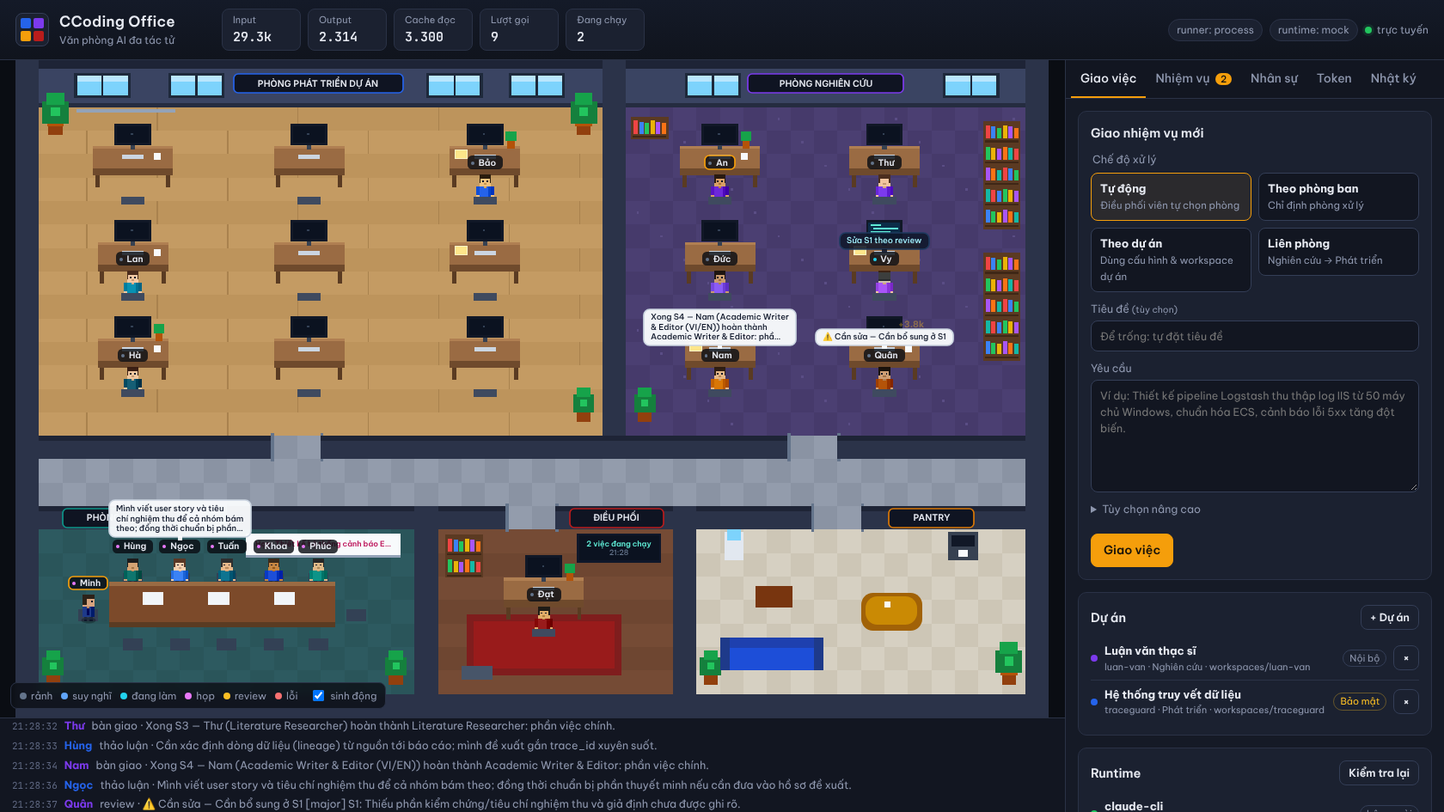
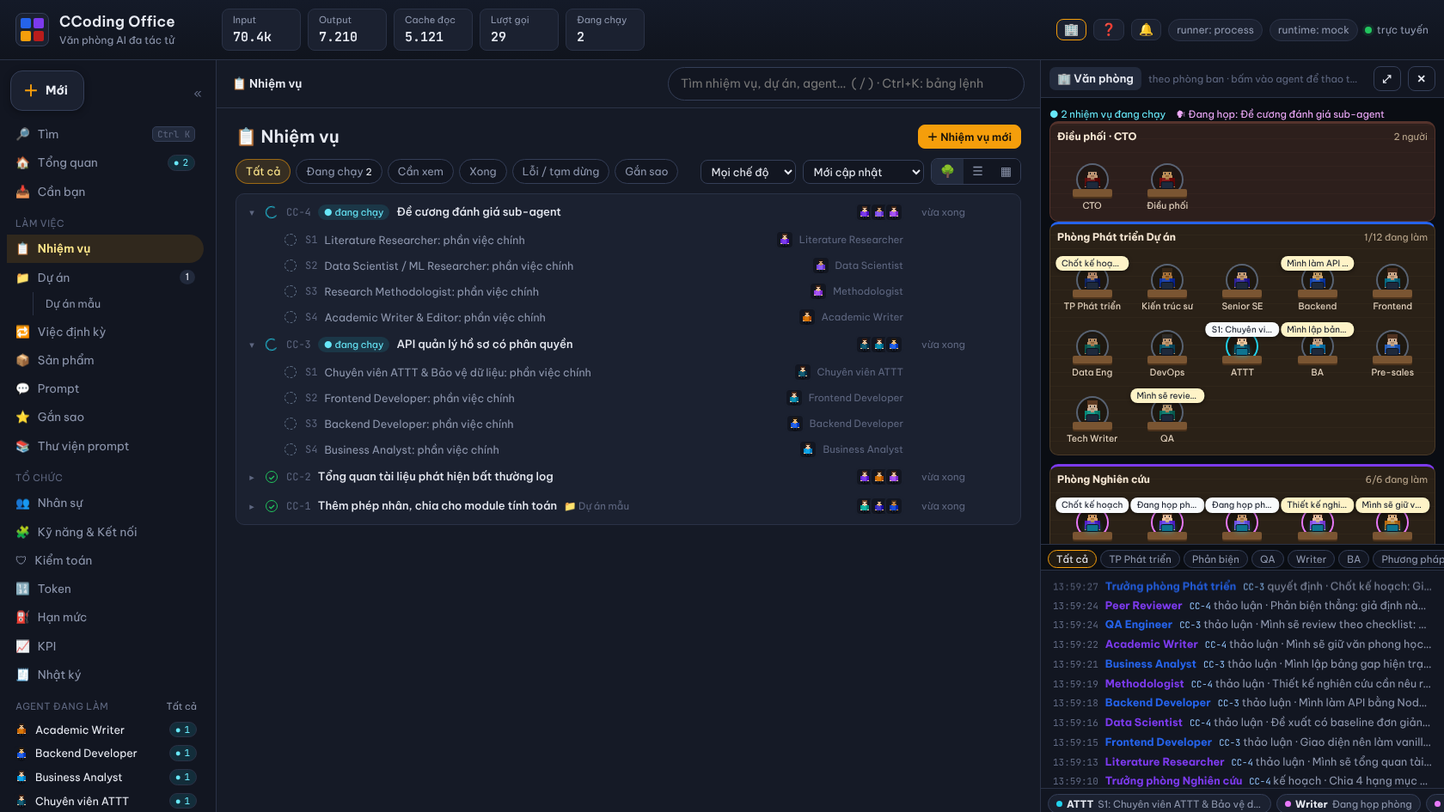
Tài liệu sau UX-4: README, kiến trúc, giao diện; CLI dùng mã CC-n
- README: tính năng UX-1→UX-4 (xem/gộp thay đổi, dòng thời gian, Cần bạn, Ctrl+K, mã ngắn, cây nhiệm vụ,
  duyệt kế hoạch, CTO nghiệm thu, Việc định kỳ, Sản phẩm, Kỹ năng & Kết nối, Kiểm toán, văn phòng theo phòng ban);
  bỏ phần "phòng giám đốc" WASD/trò vui đã gỡ; sơ đồ kiến trúc có CTO + bộ lập lịch; cây data/; 166 test; ảnh mới
  (chụp từ server thử, dữ liệu mẫu).
- docs/ARCHITECTURE.md: bảng thành phần đủ module, vòng đời có cổng duyệt kế hoạch, lệnh kiểm tra, nghiệm thu,
  gộp; sự kiện SSE alert/runtime; bảng REST API đầy đủ (ship, diff, timeline, plan, review, audit, routines…).
- docs/UI.md: bố cục cột trái/giữa/phải hiện tại, phím tắt (bỏ WASD), gợi ý tiếp theo; HERDR/TOOLS/RUNTIMES/
  AGENTS-GUIDE: pha nghiệm thu, nhóm Điều phối gồm CTO.
- CLI: status/show/task/resume/split hiện mã CC-n; `ccoding show CC-12` nhận mã ngắn và hiện kết luận nghiệm thu;
  trợ giúp ghi `--from accept`.
- ccoding.config.json ghi rõ taskPrefix, defaults.acceptance, planApprovalMinutes, giới hạn pha accept (trùng mặc định).

Claude-Session: https://claude.ai/code/session_01FYR8M5XFaYf41UMjPuSBoN

diff --git a/src/cli.ts b/src/cli.ts
@@ -37,14 +37,14 @@ ${c.bold('Giao việc')}
       --project <id>                         Gắn vào dự án (chế độ project)
       --title "<tiêu đề>"   --rounds 0-3   --parallel 1-8   --no-review
       --runtime <id>        --budget <token>   --budget-mode pause|complete   --wait
-  cancel <taskId>                            Hủy nhiệm vụ đang chạy
-  pause <taskId>                             Tạm dừng (giữ tiến độ)
-  resume <taskId> [--add <token>] [--budget-mode pause|complete] [--from review|synthesize] [--rerun S1,S2|all]
-                                             Tiếp tục từ checkpoint / làm lại từ review / chạy lại hạng mục
-  split <taskId> [--only S1,S2] [--budget <token>] [--budget-mode pause|complete]
+  cancel <mã>                                Hủy nhiệm vụ đang chạy (mã CC-12 hoặc id đầy đủ T-…)
+  pause <mã>                                 Tạm dừng (giữ tiến độ)
+  resume <mã> [--add <token>] [--budget-mode pause|complete] [--from review|synthesize|accept] [--rerun S1,S2|all]
+                                             Tiếp tục từ checkpoint / làm lại từ review / nghiệm thu lại / chạy lại hạng mục
+  split <mã> [--only S1,S2] [--budget <token>] [--budget-mode pause|complete]
                                              Tách hạng mục chưa xong thành nhiệm vụ riêng (mỗi nhiệm vụ một gói việc)
   status [--watch]                           Danh sách nhiệm vụ & trạng thái agent
-  show <taskId>                              Chi tiết một nhiệm vụ
+  show <mã>                                  Chi tiết một nhiệm vụ (hạng mục, review, CTO nghiệm thu)
 
 ${c.bold('Log & token')}
   logs [-f] [--agent id] [--dept id] [--task id|latest] [--level warn+] [-n 50]   Xem / theo dõi log
@@ -114,8 +114,13 @@ function printMessage(m: ChatMessage, names: Map<string, string>): void {
   console.log(`${c.gray(localTime(m.ts))} ${tag} ${c.bold(who)} ${c.gray(`[${m.department}]`)}\n   ${m.text.split('\n').join('\n   ')}`);
 }
 
+/** Mã ngắn "CC-12" (UX-4a); nhiệm vụ chưa có số thì dùng id đầy đủ. */
+function taskCode(t: Pick<Task, 'id' | 'seq'>): string {
+  return t.seq ? `${config.taskPrefix}-${t.seq}` : t.id;
+}
+
 function taskRow(t: Task): string[] {
-  return [t.id, statusColor(t.status), t.phase ?? '', t.mode, t.departments.join('→') || t.department || '', fmtNum(totalTokens(t.usage)), t.title.slice(0, 50)];
+  return [taskCode(t), statusColor(t.status), t.phase ?? '', t.mode, t.departments.join('→') || t.department || '', fmtNum(totalTokens(t.usage)), t.title.slice(0, 50)];
 }
 
 // ── Lệnh ────────────────────────────────────────────────────────────────────
@@ -195,7 +200,7 @@ async function cmdTask(args: string[]): Promise<void> {
 
   if (!values.local && (await serverUp())) {
     const t = await api<Task>('/api/tasks', { method: 'POST', body: JSON.stringify(input) });
-    console.log(`${c.green('✓')} Đã giao ${c.bold(t.id)} — theo dõi tại ${c.cyan(base)}`);
+    console.log(`${c.green('✓')} Đã giao ${c.bold(taskCode(t))} — theo dõi tại ${c.cyan(`${base}/#/task/${taskCode(t)}`)}`);
     if (!values.wait) return;
     const state = await api('/api/state');
     const names = new Map<string, string>(state.agents.map((a: { id: string; name: string }) => [a.id, a.name]));
@@ -219,14 +224,14 @@ async function cmdTask(args: string[]): Promise<void> {
   });
   console.log(c.gray('(server chưa chạy — thực thi trực tiếp trong terminal này)'));
   const t = app.orchestrator.submit(input);
-  console.log(`${c.green('✓')} ${c.bold(t.id)}: ${t.title}`);
+  console.log(`${c.green('✓')} ${c.bold(taskCode(t))}: ${t.title}`);
   const done = await app.orchestrator.waitFor(t.id);
   app.store.flush();
   finishTask(done, app.store.runDir(t.id));
 }
 
 function finishTask(t: Task, runDir: string): void {
-  console.log(`\n${c.bold('Kết thúc')} ${t.id}: ${statusColor(t.status)}${t.error ? c.red(` — ${t.error}`) : ''}${t.pause ? c.yellow(` — ${t.pause.detail} (tiếp tục: ccoding resume ${t.id})`) : ''}`);
+  console.log(`\n${c.bold('Kết thúc')} ${taskCode(t)}: ${statusColor(t.status)}${t.error ? c.red(` — ${t.error}`) : ''}${t.pause ? c.yellow(` — ${t.pause.detail} (tiếp tục: ccoding resume ${taskCode(t)})`) : ''}`);
   console.log(`Token: in ${fmtNum(t.usage.input)} · out ${fmtNum(t.usage.output)} · cache ${fmtNum(t.usage.cacheRead)} · ${t.usage.calls} lượt${t.usage.costUsd ? ` · ${fmtUsd(t.usage.costUsd)}` : ''}`);
   if (t.finalPath) console.log(`Báo cáo: ${c.cyan(path.join(runDir, t.finalPath))}`);
   if (t.status !== 'done') process.exitCode = 1;
@@ -253,7 +258,7 @@ async function cmdStatus(args: string[] = []): Promise<void> {
   if (await serverUp()) {
     const s = await api('/api/state');
     console.log(c.bold(`Nhiệm vụ (runner: ${s.runner})`));
-    console.log(table(['ID', 'Trạng thái', 'Pha', 'Chế độ', 'Phòng', 'Token', 'Tiêu đề'], s.tasks.slice(0, 15).map(taskRow), ['l', 'l', 'l', 'l', 'l', 'r']));
+    console.log(table(['Mã', 'Trạng thái', 'Pha', 'Chế độ', 'Phòng', 'Token', 'Tiêu đề'], s.tasks.slice(0, 15).map(taskRow), ['l', 'l', 'l', 'l', 'l', 'r']));
     console.log(`\n${c.bold('Nhân sự')}`);
     const rows = s.agents.map((a: any) => [
       hexColor(a.look.shirt, '■') + ' ' + a.name,
@@ -270,16 +275,34 @@ async function cmdStatus(args: string[] = []): Promise<void> {
   const logs = new LogStore(config.dataDir, { redactSecrets: true, redactPii: true, hashChain: true });
   const store = new Store(config.dataDir, logs);
   console.log(c.gray('(server không chạy — đọc từ đĩa)'));
-  console.log(table(['ID', 'Trạng thái', 'Pha', 'Chế độ', 'Phòng', 'Token', 'Tiêu đề'], store.list().slice(0, 15).map(taskRow), ['l', 'l', 'l', 'l', 'l', 'r']));
+  console.log(table(['Mã', 'Trạng thái', 'Pha', 'Chế độ', 'Phòng', 'Token', 'Tiêu đề'], store.list().slice(0, 15).map(taskRow), ['l', 'l', 'l', 'l', 'l', 'r']));
+}
+
+/** Đọc nhiệm vụ từ đĩa theo id đầy đủ hoặc mã ngắn (CC-12). */
+function findTaskOnDisk(ref: string): Task | null {
+  const runs = path.join(config.dataDir, 'runs');
+  if (/^[\w.-]+$/.test(ref)) {
+    const t = readJsonFile<Task | null>(path.join(runs, ref, 'task.json'), null);
+    if (t) return t;
+  }
+  const m = /^[A-Za-z][A-Za-z0-9]{0,7}-(\d{1,9})$/.exec(ref.trim());
+  if (!m || !fs.existsSync(runs)) return null;
+  const n = Number(m[1]);
+  for (const d of fs.readdirSync(runs, { withFileTypes: true })) {
+    if (!d.isDirectory()) continue;
+    const t = readJsonFile<Task | null>(path.join(runs, d.name, 'task.json'), null);
+    if (t?.seq === n) return t;
+  }
+  return null;
 }
 
 async function cmdShow(args: string[]): Promise<void> {
-  const id = args[0];
-  if (!id) throw new Error('Cần taskId');
-  const runDir = path.join(config.dataDir, 'runs', id);
-  const t = readJsonFile<Task | null>(path.join(runDir, 'task.json'), null);
-  if (!t) throw new Error(`Không có nhiệm vụ ${id}`);
-  console.log(`${c.bold(t.id)} — ${t.title}\n${statusColor(t.status)} · ${t.mode} · ${t.departments.join(' → ')} · dữ liệu: ${t.classification}`);
+  const ref = args[0];
+  if (!ref) throw new Error('Cần mã nhiệm vụ (CC-12) hoặc taskId');
+  const t = findTaskOnDisk(ref);
+  if (!t) throw new Error(`Không có nhiệm vụ ${ref}`);
+  const runDir = path.join(config.dataDir, 'runs', t.id);
+  console.log(`${c.bold(taskCode(t))}${t.seq ? c.gray(` (${t.id})`) : ''} — ${t.title}\n${statusColor(t.status)} · ${t.mode} · ${t.departments.join(' → ')} · dữ liệu: ${t.classification}`);
   if (t.routing) console.log(c.gray(`Định tuyến: ${t.routing.reason} (bởi ${t.routing.by})`));
   for (const r of t.runs) {
     console.log(`\n${c.bold(r.department)} — ${statusColor(r.status)} · ${fmtNum(totalTokens(r.usage))} token`);
@@ -292,6 +315,7 @@ async function cmdShow(args: string[]): Promise<void> {
     );
     if (r.review) console.log(`Review: ${r.review.approved ? c.green('duyệt') : c.yellow('cần sửa')} — ${r.review.summary}`);
   }
+  if (t.acceptance) console.log(`\nCTO nghiệm thu: ${t.acceptance.accepted ? c.green('đạt') : c.yellow(t.acceptance.error ? `chưa nghiệm thu được — ${t.acceptance.error}` : 'chưa đạt')}${t.acceptance.criteria?.length ? ` · ${t.acceptance.criteria.filter((x) => x.result === 'pass').length}/${t.acceptance.criteria.length} tiêu chí` : ''}`);
   if (t.finalPath) console.log(`\nBáo cáo: ${c.cyan(path.join(runDir, t.finalPath))}`);
 }
 
@@ -711,7 +735,7 @@ async function cmdResume(args: string[]): Promise<void> {
     rerun: values.rerun ? (values.rerun === 'all' ? 'all' : values.rerun.split(',')) : undefined,
   };
   const t = await api<Task>(`/api/tasks/${positionals[0]}/resume`, { method: 'POST', body: JSON.stringify(body) });
-  console.log(`${c.green('✓')} Tiếp tục ${t.id} — ngân sách ${fmtNum(t.options.budgetTokens)} · ${t.options.budgetMode === 'complete' ? 'chạy tới khi hoàn thành' : 'dừng khi chạm trần'}`);
+  console.log(`${c.green('✓')} Tiếp tục ${taskCode(t)} — ngân sách ${fmtNum(t.options.budgetTokens)} · ${t.options.budgetMode === 'complete' ? 'chạy tới khi hoàn thành' : 'dừng khi chạm trần'}`);
 }
 
 async function cmdSplit(args: string[]): Promise<void> {
@@ -720,8 +744,8 @@ async function cmdSplit(args: string[]): Promise<void> {
   if (!(await serverUp())) throw new Error('Server không chạy');
   const body = { subtasks: values.only ? values.only.split(',') : undefined, budgetTokens: values.budget ? Number(values.budget) : undefined, budgetMode: values['budget-mode'] };
   const r = await api<{ task: Task; created: Task[] }>(`/api/tasks/${positionals[0]}/split`, { method: 'POST', body: JSON.stringify(body) });
-  console.log(`${c.green('✓')} Đã tách ${r.created.length} nhiệm vụ từ ${r.task.id}:`);
-  for (const t of r.created) console.log(`  ${t.id}  ${t.title}  · ngân sách ${fmtNum(t.options.budgetTokens)}${t.after?.length ? c.dim(` · chờ ${t.after.join(', ')}`) : ''}`);
+  console.log(`${c.green('✓')} Đã tách ${r.created.length} nhiệm vụ từ ${taskCode(r.task)}:`);
+  for (const t of r.created) console.log(`  ${taskCode(t)}  ${t.title}  · ngân sách ${fmtNum(t.options.budgetTokens)}${t.after?.length ? c.dim(` · chờ ${t.after.join(', ')}`) : ''}`);
 }
 
 async function cmdCancel(args: string[]): Promise<void> {

diff --git a/docs/UI.md b/docs/UI.md
@@ -6,9 +6,9 @@ Giao diện web (http://127.0.0.1:7420) chỉ phục vụ máy cục bộ, khôn
 
 | Cột | Nội dung |
 |---|---|
-| **Trái — điều hướng** | **＋ Mới** (nhiệm vụ, giao riêng, dự án, prompt, tải tệp), các mục chính, cây **Dự án → Nhiệm vụ** (như thư mục), gắn sao, gần đây ngoài dự án, ⛽ token hôm nay. Nút `«`/`»` thu gọn thành dải biểu tượng (mặc định thu gọn ở màn Prompt, nhớ riêng cho từng màn). |
-| **Giữa — màn chính** | Kiểu Drive: *Tổng quan* (việc đang chạy, cần quyết định, dự án, gần đây), *Dự án* dạng thư mục (chuột phải/⋮ để thao tác), trang dự án có ô soạn + nhân sự, *Nhiệm vụ* (lọc, sắp xếp, danh sách/lưới, gắn sao, menu chuột phải), trang nhiệm vụ đầy đủ (kế hoạch, lệnh kiểm tra, sản phẩm, 🧬 thay đổi, token, nhật ký, lượt gọi, ô soạn cuối trang). Ô tìm `/` tìm nhiệm vụ, dự án, agent. Mỗi màn có URL riêng (Back/Forward dùng được). |
-| **Phải — ô phụ** | Thẻ **🏢 Văn phòng** (sơ đồ pixel + dòng sự kiện mới nhất ở trên) và **📄 Xem trước** (báo cáo/tệp sản phẩm mở từ hội thoại, chép nội dung). `⤢` phóng to, `✕`/phím `V` ẩn hiện. |
+| **Trái — điều hướng** | **＋ Mới** (nhiệm vụ, giao riêng, dự án, prompt, tải tệp), 🔎 Tìm (Ctrl+K), 🏠 Tổng quan, 📥 Cần bạn; nhóm **Làm việc** (Nhiệm vụ, Dự án + các dự án bên dưới, 🔁 Việc định kỳ, 📦 Sản phẩm, 💬 Prompt, Gắn sao, Thư viện prompt) và **Tổ chức** (Nhân sự, 🧩 Kỹ năng & Kết nối, 🛡 Kiểm toán, Token, Hạn mức, KPI, Nhật ký); agent đang làm; nhiệm vụ gần đây; ⛽ token hôm nay. Nút `«`/`»` thu gọn thành dải biểu tượng (mặc định thu gọn ở màn Prompt, nhớ riêng cho từng màn). Chi tiết ở mục UX-4a, UX-4d bên dưới. |
+| **Giữa — màn chính** | *Tổng quan* (việc đang chạy, cần quyết định, dự án, gần đây), *Dự án* (chuột phải/⋮ để thao tác), trang dự án có ô soạn + nhân sự, *Nhiệm vụ* dạng **cây** (hoặc bảng/lưới; lọc, sắp xếp, gắn sao, menu chuột phải), trang nhiệm vụ đầy đủ (kế hoạch, lệnh kiểm tra, CTO nghiệm thu, sản phẩm, 🧬 thay đổi, ⏱ dòng thời gian, token, nhật ký, lượt gọi, ô soạn cuối trang) và các trang Việc định kỳ, Sản phẩm, Kỹ năng & Kết nối, Kiểm toán. Mã nhiệm vụ ngắn `CC-n` ở mọi nơi. Ô tìm `/` tìm nhiệm vụ, dự án, agent. Mỗi màn có URL riêng (Back/Forward dùng được). |
+| **Phải — ô phụ** | Thẻ **🏢 Văn phòng** (mỗi phòng ban một phòng, mỗi agent một bàn; luồng hoạt động theo agent; thanh trạng thái — xem mục *Văn phòng* bên dưới) và **📄 Xem trước** (báo cáo/tệp sản phẩm mở từ hội thoại, chép nội dung). `⤢` phóng to, `✕`/phím `V` ẩn hiện; màn hẹp thì ô này ẩn mặc định. |
 
 ## Màn 💬 Prompt (kiểu ứng dụng chat)
 
@@ -99,7 +99,7 @@ Góp ý (kèm 👍/👎, gắn nhiệm vụ tùy chọn) lưu ở `data/feedback
 | `I` | Hộp 📥 Cần bạn (trong hộp: `J`/`K`, `Enter`, `O`, `1`, `2`, `H`, `X`, `Z`) |
 | `Ctrl`+`Enter` | Giao việc ở ô soạn lớn (cuộc mới, trang dự án, trang nhiệm vụ) |
 | `Enter` / `Shift`+`Enter` | Gửi / xuống dòng ở ô trả lời của hội thoại |
-| `W` `A` `S` `D` / `E` | Đi / tương tác |
+| `1`–`9`, `↑`/`↓`, `Enter` | Trong menu một agent ở văn phòng: chọn mục (`Esc`/`E` đóng) |
 | `Esc` | Đóng hộp thoại, menu, hướng dẫn |
 
 Phím tắt không chạy khi đang gõ trong ô nhập hoặc có hộp thoại mở.
@@ -125,18 +125,19 @@ Phím tắt không chạy khi đang gõ trong ô nhập hoặc có hộp thoại
 ## Theo dõi song song và điều hướng (UX-3, 1/11/2026)
 
 - **⏱ Dòng thời gian** (tab trong trang nhiệm vụ, `#/task/<id>/timeline`; bảng lệnh → "Dòng thời gian các hạng mục"): mỗi hạng mục một làn, **mỗi lượt gọi agent một thanh theo thời lượng thật** (màu theo pha: lập kế hoạch, họp, thực thi, review, sửa theo review, tổng hợp; lệnh chuẩn bị / lệnh kiểm tra), làn "Lập kế hoạch · họp · review · tổng hợp" của mỗi phòng, khoảng **tạm dừng** (sọc xám), mốc **◆ gộp worktree con**, đoạn **chờ** (hạng mục đã sẵn sàng vì phụ thuộc xong mà chưa bắt đầu — thiếu "ghế"/agent bận), thanh **đang chạy** (sọc chuyển động) và **lỗi / bị ngắt** (viền đỏ). Thanh đầu: tổng thời gian, thời gian tạm dừng, thời gian thực thi (% thời gian chạy), **song song tối đa**, **đường găng** (chuỗi phụ thuộc quyết định thời gian xong, vd. S1 → S2 → S4 · 9 phút — các làn găng có vạch đỏ). Thu phóng 1×/2×/4× (khi một vạch chia dưới 1 phút thì nhãn trục có giây). Khoảng **tạm dừng** gồm cả thời gian chờ sau khi nhiệm vụ lỗi/xong rồi được chạy tiếp, và thời gian server bị khởi động lại giữa chừng (lượt gọi dở lúc đó hiện là **bị ngắt**, không phải "đang chạy"). Đường găng và mốc "sẵn sàng" chỉ tính lượt **thực thi** (lượt sửa theo review chạy sau, không tính). Trang tự làm mới mỗi 5 giây khi việc đang chạy và tab còn mở (vẽ lại theo sự kiện dùng dữ liệu đệm, không gọi lại API); server đọc `calls.jsonl` theo dòng và chỉ đọc phần mới ghi thêm. Dữ liệu từ `calls.jsonl` + nhật ký nhiệm vụ: `GET /api/tasks/<id>/timeline`. (Thay cho kịch bản phân tích chạy tay `analyze-runs.cjs` khi chỉ cần xem đường găng.)
-- **📥 Cần bạn** (cột trái, phím `I`, `#/inbox`): mọi việc chờ bạn quyết — 📝 kế hoạch chờ duyệt, ⏸ tạm dừng (ngân sách, hết tài nguyên, thủ công, server khởi động lại), ❌ lỗi, ⚠ xong nhưng cần xem; danh sách bên trái, xem trước bên phải (hộp duyệt kế hoạch / tóm tắt + lệnh kiểm tra + ⚖ duyệt/yêu cầu sửa / hộp tạm dừng). Phím: `J`/`K` (↓/↑) chọn · `Enter` mở hội thoại · `O` trang nhiệm vụ · `1` hành động chính (duyệt kế hoạch kèm bản nháp sửa / duyệt kết quả / chạy tiếp) · `2` hành động phụ (sửa kế hoạch / yêu cầu sửa / +50% ngân sách) · `H` hoãn 4 giờ (bấm lại để bỏ hoãn; lưu trong trình duyệt) · `X` hủy (hỏi xác nhận; chỉ với kế hoạch chờ duyệt / tạm dừng — việc lỗi hay đã xong không cần hủy) · `Z` / `Esc` hoàn tác (chỉ khi có hành động đang chờ). Phím không bị bắt khi đang gõ, khi `Enter` trên một nút đang chọn, khi menu tương tác của văn phòng (`E`) hay bảng lệnh đang mở. **Hành động `1`/`2` chờ 4 giây rồi mới gửi** (thanh "⏳ Sẽ … — Hoàn tác (Z)") — duyệt nhầm không tốn token; bấm việc khác trong lúc chờ thì hành động trước được gửi ngay; bấm lại cùng hành động trên cùng việc thì không gửi lần hai. Tổng quan → "⚠ Cần bạn quyết định" có lối tắt sang hộp này.
+- **📥 Cần bạn** (cột trái, phím `I`, `#/inbox`): mọi việc chờ bạn quyết — 📝 kế hoạch chờ duyệt, ⏸ tạm dừng (ngân sách, hết tài nguyên, thủ công, server khởi động lại), ❌ lỗi, ⚠ xong nhưng cần xem; danh sách bên trái, xem trước bên phải (hộp duyệt kế hoạch / tóm tắt + lệnh kiểm tra + ⚖ duyệt/yêu cầu sửa / hộp tạm dừng). Phím: `J`/`K` (↓/↑) chọn · `Enter` mở hội thoại · `O` trang nhiệm vụ · `1` hành động chính (duyệt kế hoạch kèm bản nháp sửa / duyệt kết quả / chạy tiếp) · `2` hành động phụ (sửa kế hoạch / yêu cầu sửa / +50% ngân sách) · `H` hoãn 4 giờ (bấm lại để bỏ hoãn; lưu trong trình duyệt) · `X` hủy (hỏi xác nhận; chỉ với kế hoạch chờ duyệt / tạm dừng — việc lỗi hay đã xong không cần hủy) · `Z` / `Esc` hoàn tác (chỉ khi có hành động đang chờ). Phím không bị bắt khi đang gõ, khi `Enter` trên một nút đang chọn, khi menu agent của văn phòng hay bảng lệnh đang mở. **Hành động `1`/`2` chờ 4 giây rồi mới gửi** (thanh "⏳ Sẽ … — Hoàn tác (Z)") — duyệt nhầm không tốn token; bấm việc khác trong lúc chờ thì hành động trước được gửi ngay; bấm lại cùng hành động trên cùng việc thì không gửi lần hai. Tổng quan → "⚠ Cần bạn quyết định" có lối tắt sang hộp này.
 - **Bảng lệnh `Ctrl`+`K`** (`⌘K` trên Mac, dùng được cả khi đang gõ): gõ không dấu cũng được ("duyet ke hoach", chữ cái đầu "dtg" → "Dòng thời gian"). Nhóm: **Nhiệm vụ đang mở** (mở hội thoại / trang nhiệm vụ / dòng thời gian / thay đổi / báo cáo / lượt gọi, tạm dừng, chạy tiếp, hủy, duyệt kế hoạch, duyệt kết quả, sẵn sàng gộp, giao lại tương tự, chép mã), **Xem gần đây**, **Đi tới** (mọi màn), **Tạo & thao tác** (nhiệm vụ mới, giao riêng, dự án, prompt, tải tệp, ẩn/hiện văn phòng, thông báo, trợ giúp), **Nhiệm vụ / Dự án / Agent** (khi gõ). `↑`/`↓` chọn · `Enter` chạy · `Esc` đóng.
 
 ## Mã ngắn, cây nhiệm vụ, cột trái theo nhóm (UX-4a, 2/11/2026)
 
 - **Mã nhiệm vụ ngắn `CC-94`**: mỗi nhiệm vụ có số thứ tự (`seq` trong `task.json`), nhiệm vụ cũ được đánh số bù theo lúc tạo khi server khởi động. Tiền tố đặt bằng `taskPrefix` trong `ccoding.config.json` (1–8 chữ in hoa/số, vd. `"ICS"`; mặc định `CC`). Mã hiện ở danh sách, trang nhiệm vụ, hộp Cần bạn, bảng lệnh (chép mã), tìm kiếm; URL dùng mã (`#/task/CC-94`, `#/chat/CC-94`); gõ `CC-94` (hoặc mã đầy đủ `T-…`) trong tin nhắn/báo cáo → thành liên kết mở nhiệm vụ (trong khối `code` và trong liên kết ngoài thì giữ nguyên). `GET /api/tasks/CC-94` cũng nhận mã ngắn.
 - **Danh sách dạng cây** (mặc định ở 📋 Nhiệm vụ và trang dự án; nút 🌳 / ☰ bảng / ▦ lưới): nhiệm vụ gốc → **hạng mục** (S1, S2… kèm người làm) → **nhiệm vụ con** (việc nối tiếp, việc tách từ hạng mục), lồng nhiều tầng. Mỗi dòng: biểu tượng trạng thái (○ chờ · ◔ đang chạy · ✓ xong · ✕ lỗi · ‖ tạm dừng · − hủy/bỏ qua · ! cần xem), mã, nhãn **● đang chạy**, **↳ n đang chạy** (cộng dồn việc đang chạy bên dưới), chờ duyệt kế hoạch / cần xem, tên, dự án, người làm, thời gian tương đối (vừa xong · 7 phút · 2 giờ · 3 ngày). Xếp theo "Mới cập nhật" thì có vạch **Cũ hơn một ngày**. Nhánh đang chạy hoặc còn việc con chưa xong tự mở; bấm ▸/▾ (hoặc ←/→) để mở/đóng — trình duyệt nhớ 300 lần gần nhất; ↑/↓ chuyển dòng, `Enter` mở. Tổng quan dùng dòng gọn (không lồng).
-- **Cột trái xếp theo nhóm** (giống các ứng dụng quản lý việc): 🔎 Tìm (mở bảng lệnh Ctrl+K) · 🏠 Tổng quan **● n** (nhiệm vụ đang chạy thật, không tính việc chờ) · 📥 Cần bạn — **Làm việc**: Nhiệm vụ, Dự án (các dự án hiện ngay bên dưới, theo hoạt động gần nhất, kèm số việc đang chạy), Prompt, Gắn sao, Thư viện prompt — **Tổ chức**: Nhân sự, Token, Hạn mức, KPI, Nhật ký — **Agent đang làm** (ảnh, tên, số việc; bấm mở hồ sơ) — **Gần đây** (6 nhiệm vụ cập nhật gần nhất, chấm xanh = đang chạy) — đồng hồ token.
+- **Cột trái xếp theo nhóm** (giống các ứng dụng quản lý việc): 🔎 Tìm (mở bảng lệnh Ctrl+K) · 🏠 Tổng quan **● n** (nhiệm vụ đang chạy thật, không tính việc chờ) · 📥 Cần bạn — **Làm việc**: Nhiệm vụ, Dự án (các dự án hiện ngay bên dưới, theo hoạt động gần nhất, kèm số việc đang chạy), 🔁 Việc định kỳ, 📦 Sản phẩm, 💬 Prompt, Gắn sao, Thư viện prompt — **Tổ chức**: Nhân sự, 🧩 Kỹ năng & Kết nối, 🛡 Kiểm toán, Token, Hạn mức, KPI, Nhật ký — **Agent đang làm** (ảnh, tên, số việc; bấm mở hồ sơ) — **Gần đây** (6 nhiệm vụ cập nhật gần nhất, chấm xanh = đang chạy) — đồng hồ token. (Bốn trang Việc định kỳ, Sản phẩm, Kỹ năng & Kết nối, Kiểm toán thêm ở UX-4d.)
 
 ## Gợi ý tiếp theo (chưa làm)
 
-Lộ trình UX-2/UX-3 (rà soát 1/11/2026, so với Devin, Codex, Copilot, Cursor, Conductor, LangSmith, Linear…):
+Lộ trình UX (rà soát 1/11/2026, so với Devin, Codex, Copilot, Cursor, Conductor, LangSmith, Linear…; hướng UI theo ảnh "issue tracker" 2/11/2026):
 
-- Tiếp theo: biểu đồ xu hướng token/KPI; chạy bản thử ứng dụng trong worktree (`previewCommand`); "ghế" song song theo vai trò (dòng thời gian cho thấy đoạn *chờ*).
-- Khác: tải gói sản phẩm (.zip); bảng điều khiển trên điện thoại; chủ đề sáng/tối và cỡ chữ; dấu "!" trên nhân vật văn phòng khi việc cần bạn.
+- Tiếp theo: agent tự tạo việc con và quan hệ "bị chặn bởi"; chọn agent/model ngay ô soạn, 👍/👎 từng tin; tab Ngân sách của dự án; văn phòng theo đội của từng dự án.
+- Sau đó: biểu đồ xu hướng token/KPI; chạy bản thử ứng dụng trong worktree (`previewCommand`); "ghế" song song theo vai trò (dòng thời gian cho thấy đoạn *chờ*).
+- Khác: tải gói sản phẩm (.zip); bảng điều khiển trên điện thoại; chủ đề sáng/tối và cỡ chữ; dấu "!" trên bàn agent khi việc cần bạn.

diff --git a/docs/ARCHITECTURE.md b/docs/ARCHITECTURE.md
@@ -4,17 +4,26 @@
 
 | Thành phần | File | Vai trò |
 |---|---|---|
-| CLI | `src/cli.ts` | `serve`, `task`, `status`, `show`, `logs`, `usage`, `agents`, `project`, `doctor`, `herdr`, `agent-exec` |
-| Server | `src/server.ts` | REST + Server-Sent Events, phục vụ giao diện `public/`; chỉ nghe 127.0.0.1, chống CSRF/DNS-rebinding |
-| Orchestrator | `src/orchestrator.ts` | Hàng đợi nhiệm vụ, định tuyến, vòng đời phòng ban, khóa theo agent, ngân sách token, hủy |
+| CLI | `src/cli.ts` | `serve`, `task`, `status`, `show`, `cancel`, `pause`, `resume`, `split`, `logs`, `usage`, `kpi`, `agents`, `project`, `bench`, `doctor`, `herdr`, `agent-exec` — nhận mã ngắn `CC-12` hoặc id đầy đủ |
+| Server | `src/server.ts` | REST + Server-Sent Events, phục vụ giao diện `public/`; chỉ nghe 127.0.0.1, chống CSRF/DNS-rebinding; `/api/tasks/CC-12/…` được đổi sang id thật |
+| Orchestrator | `src/orchestrator.ts` | Hàng đợi nhiệm vụ, định tuyến, vòng đời phòng ban, cổng duyệt kế hoạch, CTO nghiệm thu, khóa theo agent, ngân sách token, tạm dừng/tiếp tục, tách việc, hủy, cảnh báo |
 | Prompt | `src/prompts.ts` | Ghép hồ sơ vị trí (agent.md) + bối cảnh + yêu cầu từng pha |
-| Planner | `src/planner.ts` | Đọc JSON kế hoạch/review/định tuyến của LLM, sửa lỗi phổ biến, DAG phụ thuộc, lập lịch |
-| Registry | `src/registry.ts` | Nạp `agents/**/*.md`, `departments/*.md` |
-| Runtimes | `src/runtimes/*` | `claude-cli`, `codex-cli`, `kimi-cli`, `anthropic-api`, `openai-api`, `mock` |
-| Log | `src/logger.ts` | JSONL append-only, chuỗi băm, che PII/bí mật |
+| Planner | `src/planner.ts` | Đọc JSON kế hoạch/review/định tuyến/nghiệm thu của LLM, sửa lỗi phổ biến, DAG phụ thuộc, lập lịch |
+| Registry | `src/registry.ts` | Nạp `agents/**/*.md`, `departments/*.md`; vai trò `orchestrator`, `cto`, `lead`, `reviewer`, thành viên |
+| Runtimes | `src/runtimes/*` | `claude-cli`, `codex-cli`, `kimi-cli`, `anthropic-api`, `openai-api` (Bifrost, Ollama, 9router…), `mock`; chuỗi model dự phòng, hạn mức |
+| Công cụ agent | `src/tools/*` | Đọc/ghi/tìm tệp, chạy lệnh trong workspace (`workspace.ts`), chính sách lệnh (`shell-policy.ts`), hook PreToolUse cho Claude Code (`claude-guard.ts`), tra cứu web/OpenAlex (`web.ts`) |
+| Git | `src/git.ts`, `src/diff.ts`, `src/ship.ts` | Worktree + nhánh riêng mỗi nhiệm vụ/hạng mục; diff cho giao diện; "Sẵn sàng gộp" (kiểm, đẩy nhánh, fast-forward — không `--force`) |
+| Dòng thời gian | `src/timeline.ts` | Gantt của nhiệm vụ từ `calls.jsonl` + nhật ký (không gọi model) |
+| Việc định kỳ | `src/routines.ts` | Lịch hằng ngày / theo thứ / mỗi N giờ, `data/routines.json`, bộ lập lịch trong `serve` |
+| Kiểm toán, Sản phẩm | `src/audit.ts`, `src/artifacts.ts` | Lọc nhật ký hệ thống thành sự kiện kiểm toán; liệt kê sản phẩm của mọi nhiệm vụ |
+| KPI, ước tính | `src/kpi.ts`, `src/estimate.ts`, `src/history.ts` | KPI từng sub-agent; ước tính token theo lịch sử; ghi chú giữa các nhiệm vụ |
+| Bản đồ repo | `src/repomap.ts` | `.ccoding/<task>/repo-map.md` (+ chỉ mục bản gọn) cho agent |
+| Tệp đính kèm | `src/uploads.ts` | Trích chữ PDF/DOCX/XLSX/PPTX… vào `data/uploads/` |
+| Log | `src/logger.ts` | JSONL append-only, chuỗi băm, che PII/bí mật; kiểm chuỗi đọc một lần (CLI) hoặc đọc luồng (API) |
 | Token | `src/usage.ts` | Sổ cái `usage/ledger.jsonl` + tổng hợp |
-| Store | `src/store.ts` | `runs/<task>/task.json`, transcript, dự án |
-| herdr | `src/herdr.ts` | Dựng workspace, pane theo agent, báo trạng thái/token |
+| Store | `src/store.ts` | `runs/<task>/task.json`, transcript, dự án, mã ngắn (`seq.json`), góp ý agent |
+| herdr | `src/herdr.ts`, `src/logview.ts` | Dựng workspace, pane theo agent, space log, báo trạng thái/token |
+| Benchtest | `src/bench.ts` | Chạy cùng đề bài với từng biến thể tùy chọn để đo trước khi đổi mặc định |
 
 ## Vòng đời một nhiệm vụ
 
@@ -26,7 +35,8 @@ sequenceDiagram
   participant L as Trưởng phòng
   participant M as Thành viên
   participant Q as Reviewer
-  T->>O: brief + chế độ
+  participant C as CTO
+  T->>O: brief + chế độ (hoặc Việc định kỳ tới lịch)
   alt auto
     O->>R: route (JSON)
     R-->>O: phòng ban / liên phòng
@@ -36,24 +46,37 @@ sequenceDiagram
     O->>M: discuss (≤120 từ, @mention)
   end
   O->>L: finalize (kế hoạch chốt + quyết định)
-  par theo DAG, ≤ maxParallel, mỗi agent 1 việc
-    O->>M: execute S1..Sn (dùng công cụ trong workspace)
+  O->>O: lệnh chuẩn bị + lệnh kiểm tra baseline (dự án git)
+  opt duyệt kế hoạch bật
+    O-->>T: tạm dừng "chờ duyệt kế hoạch"
+    T->>O: duyệt / sửa người làm, phụ thuộc, bỏ hạng mục
   end
+  par theo DAG, ≤ maxParallel, mỗi agent 1 việc
+    O->>M: execute S1..Sn (công cụ trong worktree riêng)
+  end
+  O->>O: lệnh kiểm tra sau thực thi (báo hồi quy)
   O->>Q: review (JSON approved/issues)
   opt có major/blocker
     O->>M: revise
     O->>Q: review lại
   end
   O->>L: synthesize → FINAL.md
-  O-->>T: SSE: trạng thái, hội thoại, token
+  O->>C: accept (tiêu chí Đạt/Không/Chưa kiểm được + bằng chứng)
+  C-->>O: ACCEPTANCE.md; chưa đạt → "cần xem"
+  O-->>T: SSE: trạng thái, hội thoại, token, cảnh báo
+  opt giám đốc
+    T->>O: duyệt / yêu cầu sửa / Sẵn sàng gộp → đẩy nhánh
+  end
 ```
 
-- **Liên phòng**: Phòng Nghiên cứu chạy đủ vòng đời trước; báo cáo của phòng này trở thành "kết quả từ phòng trước" trong prompt của Phòng Phát triển.
-- **Theo dự án**: dự án quy định phòng mặc định (`auto`/`dev`/`research`/`joint`), workspace, runtime, phân loại dữ liệu, danh sách agent tham gia, model riêng từng agent và ngân sách token.
+- **Liên phòng**: Phòng Nghiên cứu chạy đủ vòng đời trước; báo cáo của phòng này trở thành "kết quả từ phòng trước" trong prompt của Phòng Phát triển. CTO nghiệm thu một lần sau khi mọi phòng tổng hợp xong.
+- **Theo dự án**: dự án quy định phòng mặc định (`auto`/`dev`/`research`/`joint`), workspace (repo git → worktree + nhánh `ccoding/<task>`), nhánh xuất phát, lệnh chuẩn bị/kiểm tra, runtime, phân loại dữ liệu, danh sách agent tham gia, model riêng từng agent, ngân sách token, duyệt kế hoạch.
+- **Giao riêng** (`mode: "agent"`): một agent làm luôn — bỏ định tuyến, lập kế hoạch, họp và CTO nghiệm thu; reviewer của phòng vẫn review.
+- **Checkpoint**: mỗi pha lưu vào `task.json`; server khởi động lại giữa chừng → nhiệm vụ "tạm dừng — bị gián đoạn", bấm Tiếp tục để chạy từ chỗ đã xong. `resume` nhận `from: "review" | "synthesize" | "accept"` và `rerun: ["S1"] | "all"`.
 
 ## Trạng thái agent
 
-`idle` (rảnh) · `thinking` (lập kế hoạch/chốt/tổng hợp/định tuyến) · `discussing` (đang họp — nhân vật đi vào phòng họp) · `working` (thực thi/sửa) · `reviewing` · `error`.
+`idle` (rảnh) · `thinking` (lập kế hoạch/chốt/tổng hợp/định tuyến/nghiệm thu) · `discussing` (đang họp) · `working` (thực thi/sửa) · `reviewing` · `error`. Văn phòng hiện bằng vòng màu quanh chân dung agent.
 
 Mỗi agent chỉ chạy **một lượt tại một thời điểm** (khóa theo agent) — hai nhiệm vụ cùng cần một người thì người đó làm lần lượt.
 
@@ -63,29 +86,53 @@ Mỗi agent chỉ chạy **một lượt tại một thời điểm** (khóa the
 |---|---|
 | `agent` | trạng thái agent (status, activity, task, runtime) |
 | `task` | ảnh chụp nhiệm vụ |
-| `message` | tin nhắn hội thoại (plan, discussion, decision, handoff, review, final, system) |
+| `message` | tin nhắn hội thoại (plan, discussion, decision, handoff, review, final, acceptance, system) |
 | `usage` | một bản ghi sổ cái token |
 | `log` | một dòng log |
 | `output` | đoạn văn bản agent đang stream |
+| `alert` | cảnh báo (lỗi, tạm dừng, ngân sách, cần xem, hết tài nguyên…) |
+| `runtime` | trạng thái runtime thay đổi (tạm ngừng do hạn mức, mở lại) |
 
 ## REST API
 
+Mọi `:id` của nhiệm vụ nhận id đầy đủ (`T-…`) hoặc mã ngắn (`CC-12`).
+
 | Method | Đường dẫn | Mô tả |
 |---|---|---|
-| GET | `/api/state` | toàn cảnh: phòng ban, agent, nhiệm vụ, dự án, token |
-| POST | `/api/tasks` | `{ brief, title?, mode, department?, projectId?, options? }` |
+| GET | `/api/health` · `/api/state` | còn sống (pid, runner) · toàn cảnh: phòng ban, agent, nhiệm vụ, dự án, token, `taskPrefix` |
+| GET/POST | `/api/tasks` | danh sách · giao việc `{ brief, title?, mode, department?, projectId?, agentId?, followUp?, continueBranch?, attachments?, options? }` |
 | GET | `/api/tasks/:id` | nhiệm vụ + transcript + danh sách file + token theo agent |
-| GET | `/api/tasks/:id/file?path=FINAL.md` | nội dung file trong thư mục chạy |
-| POST | `/api/tasks/:id/cancel` | hủy |
-| GET | `/api/agents/:id` | agent.md, trạng thái, token, log vị trí |
+| GET | `/api/tasks/:id/file?path=FINAL.md` | nội dung file trong thư mục chạy (chặn path traversal) |
+| POST | `/api/tasks/:id/notes` | chỉ dẫn bổ sung khi việc đang chạy |
+| POST | `/api/tasks/:id/cancel` · `/pause` | hủy · tạm dừng |
+| POST | `/api/tasks/:id/resume` | tiếp tục `{ addBudget?, budgetTokens?, budgetMode?, from?, rerun? }` |
+| POST | `/api/tasks/:id/budget` | đổi ngân sách khi đang chạy |
+| POST | `/api/tasks/:id/plan` | duyệt / sửa kế hoạch `{ department?, subtasks: [{ id, assignee?, dependsOn?, title?, description?, remove? }], approve?, note? }` |
+| POST | `/api/tasks/:id/review` | giám đốc duyệt / yêu cầu sửa `{ decision: "approve" \| "reject", note?, subtasks?, issues? }` |
+| POST | `/api/tasks/:id/split` · `/package` | tách hạng mục thành nhiệm vụ riêng · đóng gói vào dự án |
+| GET/POST | `/api/tasks/:id/ship` | Sẵn sàng gộp: kiểm (`{ action: "check" }`), đẩy nhánh (`push`), fast-forward (`ff`) |
+| GET | `/api/tasks/:id/diff[?commit=&file=&owners=1]` | thay đổi trên worktree / nhánh / từng commit |
+| GET | `/api/tasks/:id/timeline` · `/calls` · `/events?kind=&subtask=` | dòng thời gian · bản ghi lượt gọi · nhật ký nhiệm vụ |
+| POST/DELETE | `/api/uploads` · `/api/uploads/:id` | tải tệp đính kèm (trích chữ) · xóa |
+| GET | `/api/alerts` | 100 cảnh báo gần nhất |
+| GET | `/api/agents` · `/api/agents/:id` | nhân sự · agent.md, trạng thái, token, log vị trí |
+| GET/POST/DELETE | `/api/agents/:id/feedback[/:fid]` | góp ý của giám đốc cho agent |
+| GET/POST/DELETE | `/api/prompts[/:id]`, POST `/api/prompts/:id/use` | thư viện prompt |
+| GET | `/api/kpi` · POST `/api/kpi/resolve` | KPI sub-agent · đánh dấu "đã sửa" |
 | GET | `/api/usage?by=agent\|department\|task\|project\|model\|runtime\|day\|phase` | bảng token (lọc `agent`, `department`, `task`, `project`, `since`) |
+| GET | `/api/quota` | hạn mức theo runtime/model (không trả giá trị khóa) |
 | GET | `/api/logs?agent=&department=&task=&level=&limit=` | log |
-| GET/POST/DELETE | `/api/projects` | dự án |
+| GET/POST/DELETE | `/api/projects[/:id]` | dự án (xóa có ghi nhật ký kiểm toán) |
 | GET | `/api/runtimes?refresh=1` | runtime khả dụng & được phép theo nhãn dữ liệu |
+| GET | `/api/audit?cat=&q=&task=&beforeSeq=&limit=` · `/api/audit/verify` | sự kiện kiểm toán (phân trang theo `seq`) · kiểm chuỗi băm nhật ký hệ thống |
+| GET | `/api/artifacts?kind=&project=&agent=&q=` | sản phẩm của mọi nhiệm vụ |
+| GET | `/api/skills` | kỹ năng, công cụ, quyền, runtime, dự án git, herdr |
+| GET/POST | `/api/routines` | việc định kỳ: danh sách · tạo |
+| POST/DELETE | `/api/routines/:id` · POST `/api/routines/:id/run` | sửa (`{ enabled: false }` luôn tắt được) / xóa · chạy ngay |
 | POST | `/api/reload` | nạp lại agent.md/phòng ban |
 
 Nếu đặt biến môi trường `CCODING_TOKEN`, mọi `/api/*` cần `Authorization: Bearer <token>` (hoặc `?token=` cho SSE); mở UI bằng `http://127.0.0.1:7420/#token=<token>`.
 
 ## Dữ liệu trên đĩa
 
-Xem README › *Log & bộ đếm token*. Tất cả nằm trong `data/` (đã `.gitignore`), agent làm việc trong `workspaces/<dự án | task>` hoặc thư mục dự án chỉ định.
+Xem README › *Log & bộ đếm token*. Tất cả nằm trong `data/` (đã `.gitignore`), agent làm việc trong `workspaces/<dự án | task>` hoặc thư mục dự án chỉ định (repo git → worktree riêng).

diff --git a/docs/TOOLS.md b/docs/TOOLS.md
@@ -46,8 +46,8 @@ Bổ sung sau lượt chạy thật 1/11 (`docs/PROCESS-REVIEW.md` mục 11):
 **Review dựa trên bằng chứng**: reviewer có quyền chạy lệnh phải chạy test/typecheck liên quan và ghi `checks` (lệnh + exit code); lệnh thật sự chạy qua công cụ được ghi kèm kết luận, review không chạy lệnh nào bị gắn cờ "chưa có bằng chứng chạy thật" (log `review.unverified`).
 
 Giới hạn theo pha (mỗi lượt công cụ gửi lại toàn bộ hội thoại, nên chi phí tăng theo số lượt):
-- `phases.toolTurns` — số lượt tối đa: thực thi 40, sửa 16, review 10, lập kế hoạch 8, tổng hợp 4, chốt 4.
-- `phases.toolInputBudget` — trần token đầu vào cộng dồn của cả vòng lặp trong một lượt gọi: thực thi 800k, sửa 300k, review 200k, lập kế hoạch 100k, tổng hợp 60k, chốt 50k (nâng sau lượt chạy ND57: 400k chỉ đủ ~13 lượt trên repo cỡ vừa vì mỗi lượt gửi lại ~30k token lịch sử).
+- `phases.toolTurns` — số lượt tối đa: thực thi 40, sửa 16, review 10, lập kế hoạch 8, nghiệm thu (CTO) 6, tổng hợp 4, chốt 4.
+- `phases.toolInputBudget` — trần token đầu vào cộng dồn của cả vòng lặp trong một lượt gọi: thực thi 800k, sửa 300k, review 200k, nghiệm thu (CTO) 120k, lập kế hoạch 100k, tổng hợp 60k, chốt 50k (nâng sau lượt chạy ND57: 400k chỉ đủ ~13 lượt trên repo cỡ vừa vì mỗi lượt gửi lại ~30k token lịch sử).
 - `tools.cachedInputWeight` (0,1) — token đọc từ cache chỉ tính 10% khi so với `toolInputBudget` (giá cache đọc ~10% đầu vào thường): có cache (Claude qua Bifrost provider kiểu anthropic, Codex tự cache) thì vòng lặp đi được tới `toolTurns` thay vì dừng ở ~23 lượt rồi phải "chạy tiếp" với ngữ cảnh mới (mất cache, đọc lại tệp). Đo gói 2 ND57 28/10: S2 chạm trần 800k sau 23–24 lượt hai lần liền dù ~80% là cache.
 - `tools.maxReadChars` (30.000) — hạn mức ký tự riêng của `read_file`, lớn hơn đầu ra lệnh (`maxOutputChars` 12.000) để đọc trọn schema/file nguồn cỡ vừa một lần thay vì từng đoạn.
 - `phases.maxContinuations` (mặc định 2) — hạng mục thực thi chạm trần lượt/token **khi chưa xong** không bị coi là xong: model phải mở đầu câu trả lời bằng `TRẠNG THÁI: XONG` hoặc `TRẠNG THÁI: CHƯA XONG — …`; nếu chưa xong (hoặc thiếu dòng trạng thái), CCoding cho **chạy tiếp với ngữ cảnh mới** (bàn giao dở dang + `git diff --stat` của worktree, không mang lịch sử công cụ cũ nên không tốn token lặp lại). Hết số lần chạy tiếp mà vẫn chưa xong → hạng mục `failed`, hạng mục phụ thuộc bị bỏ qua (không chạy trên nền dang dở), có cảnh báo `subtask.incomplete`. Nhiệm vụ còn hạng mục lỗi/bỏ qua kết thúc ở trạng thái **lỗi** (không báo "Hoàn thành"); bấm **Tiếp tục** thì hạng mục dừng giữa chừng làm tiếp từ bàn giao dở dang + thay đổi đã có trong worktree, không làm lại từ đầu.

diff --git a/docs/data-protection-assessment.md b/docs/data-protection-assessment.md
@@ -417,3 +417,14 @@ Chỉ thay giao diện ô Văn phòng (bỏ canvas, nhân vật giám đốc, đ
 | Đầu vào API: body `null`, agent ngoài phòng ban, `limit` sai, mã việc định kỳ không có, `routines.json` sai dạng làm hỏng mọi lệnh CLI | GOV-03 | Báo lỗi 400/404 bằng tiếng Việt; tệp sai dạng bị bỏ qua |
 
 Kết luận giữ nguyên: **ĐẠT CÓ ĐIỀU KIỆN** (điều kiện sao lưu WORM `data/logs/`). Lỗi hạ nhãn dữ liệu đã đóng trước khi phát hành — chưa từng chạy trên máy thật.
+
+### Bổ sung: cập nhật tài liệu sau UX-4, CLI dùng mã ngắn (2/11/2026)
+
+| Thay đổi | Năng lực | Đánh giá |
+|---|---|---|
+| CLI `status`/`show`/`task`/`resume`/`split` hiện và nhận mã `CC-n`; `show` tìm nhiệm vụ theo số thứ tự trong `data/runs/*/task.json` | GOV-03 | Chỉ đọc dữ liệu đã có trong `data/` trên máy; không ghi, không gửi ra ngoài. `show` hiện thêm dòng kết luận nghiệm thu (đã có trong `task.json`) |
+| `ccoding.config.json` ghi rõ `taskPrefix`, `defaults.acceptance`, `planApprovalMinutes`, giới hạn pha `accept` | GOV-02 | Giá trị trùng mặc định trong mã — không đổi hành vi |
+| Ảnh `docs/screenshot.png` mới | PRE-04 | Chụp từ server thử với runtime `mock` và dữ liệu mẫu (dự án "Dự án mẫu", nhiệm vụ mẫu) — **không** chụp từ máy thật, không có tên dự án/khách hàng/dữ liệu thật |
+| README, `docs/ARCHITECTURE.md`, `docs/UI.md`, `docs/TOOLS.md`, `docs/RUNTIMES.md`, `docs/HERDR.md` | — | Tài liệu, không đụng dữ liệu |
+
+**Kết luận: ĐẠT.**

diff --git a/docs/HERDR.md b/docs/HERDR.md
@@ -36,7 +36,7 @@ Lệnh này (idempotent — chạy lại chỉ bổ sung phần thiếu):
 |---|---|---|
 | **Log · Hệ thống** (cwd `data/logs`) | `toàn hệ thống`, `cảnh báo · lỗi`, `thư mục log` | `logs -f -n 80`, `logs -f --level warn+`, `logs ls` |
 | **Log · Nhiệm vụ** (cwd `data/runs`) | `nhiệm vụ mới nhất`, `danh sách`, `token nhiệm vụ` | `logs -f --task latest`, `status --watch`, `usage --watch --task latest` |
-| **Log · Phòng ban** (cwd `data/logs/departments`) | một pane mỗi phòng (Điều phối, Phát triển, Nghiên cứu) | `logs -f --dept <id>` |
+| **Log · Phòng ban** (cwd `data/logs/departments`) | một pane mỗi phòng (Điều phối — gồm điều phối viên và CTO, Phát triển, Nghiên cứu) | `logs -f --dept <id>` |
 | **Log · Agent** (cwd `data/logs/agents`) | một tab mỗi phòng, một pane mỗi agent | `logs -f --agent <id>` |
 
 - `--task latest` tự chuyển sang nhiệm vụ mới khi có nhiệm vụ được giao; nhiệm vụ đang theo chưa xong thì không nhảy sang nhiệm vụ khác chạy song song.

diff --git a/docs/RUNTIMES.md b/docs/RUNTIMES.md
@@ -52,7 +52,7 @@ Runtime API tương thích OpenAI có `supportsTools` (mặc định bật; Olla
 
 ### `claude-cli` — Claude Code
 - Lệnh: `claude -p --output-format stream-json --verbose --model <alias> --no-session-persistence`, prompt qua stdin.
-- Pha thực thi/sửa: `--tools <tools trong agent.md> --permission-mode acceptEdits` (đổi bằng `runtimes.claude-cli.permissionMode`); pha họp/định tuyến: không công cụ; pha kế hoạch/review/tổng hợp: chỉ công cụ đọc.
+- Pha thực thi/sửa: `--tools <tools trong agent.md> --permission-mode acceptEdits` (đổi bằng `runtimes.claude-cli.permissionMode`); pha họp/định tuyến: không công cụ; pha kế hoạch/review/tổng hợp/nghiệm thu: chỉ công cụ đọc.
 - Token & chi phí **chính xác** từ sự kiện `result` (input, output, cache đọc/ghi, `total_cost_usd`).
 - Model: `opus` / `sonnet` / `haiku` dùng thẳng alias.
 

diff --git a/docs/AGENTS-GUIDE.md b/docs/AGENTS-GUIDE.md
@@ -17,7 +17,7 @@ runtime: inherit                # hoặc claude-cli | codex-cli | kimi-cli | ant
 tools: [Read, Write, Edit, Glob, Grep, Bash]   # công cụ workspace được dùng (xem bảng dưới)
 skills: [nodejs, typescript, rest-api, database, orm-migration]   # ≥ 5 thẻ — trưởng phòng dựa vào đây để giao việc
 summary: "Một câu mô tả vai trò (hiện trong danh sách nhân sự của trưởng phòng)."
-look: { hair: "#2b1d0e", shirt: "#2563eb", skin: "#f1c27d" }  # màu nhân vật pixel
+look: { hair: "#2b1d0e", shirt: "#2563eb", skin: "#f1c27d" }  # màu chân dung pixel ở văn phòng
 sources:
   - "Tom skill: phan-bien-giai-phap-he-thong"
   - "community: VoltAgent/awesome-claude-code-subagents (backend-developer) — paraphrased"
